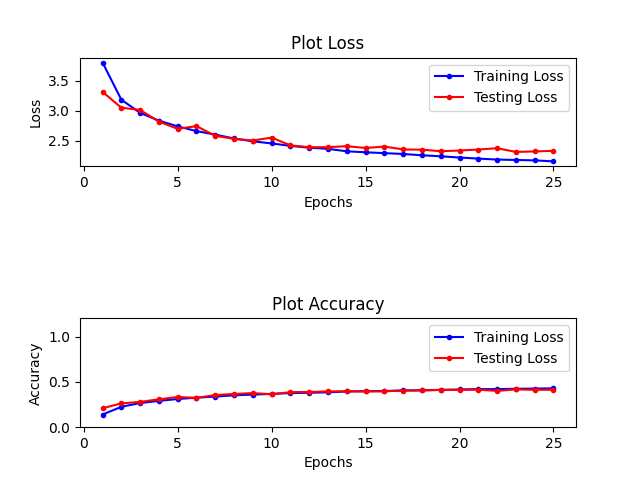
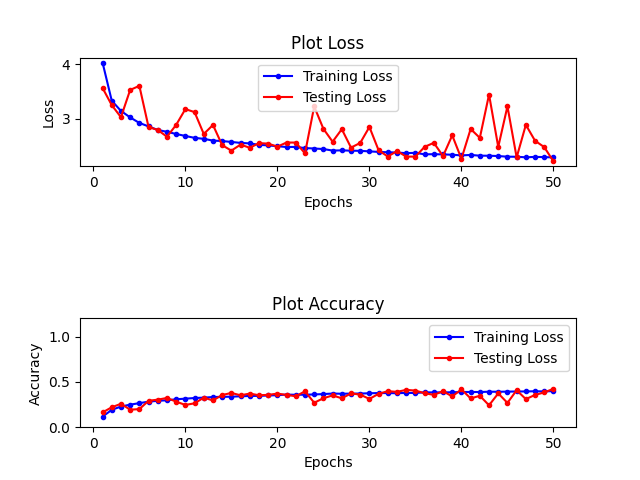
Working on dense for docx

diff --git a/train.py b/train.py
@@ -69,7 +69,7 @@ testing_generator = datagen.flow(x_test, y_test, batch_size=64)
 model.compile(loss='sparse_categorical_crossentropy',
               optimizer=tf.keras.optimizers.Adam(learning_rate=0.01), metrics='accuracy')
 
-history = model.fit(x_train, y_train, epochs=25, validation_data=testing_generator, batch_size=128, shuffle=True, callbacks=[early_stopping])
+history = model.fit(x_train, y_train, epochs=50, validation_data=testing_generator, batch_size=128, shuffle=True, callbacks=[early_stopping])
 
 training_loss = history.history["loss"]
 testing_loss = history.history["val_loss"]
